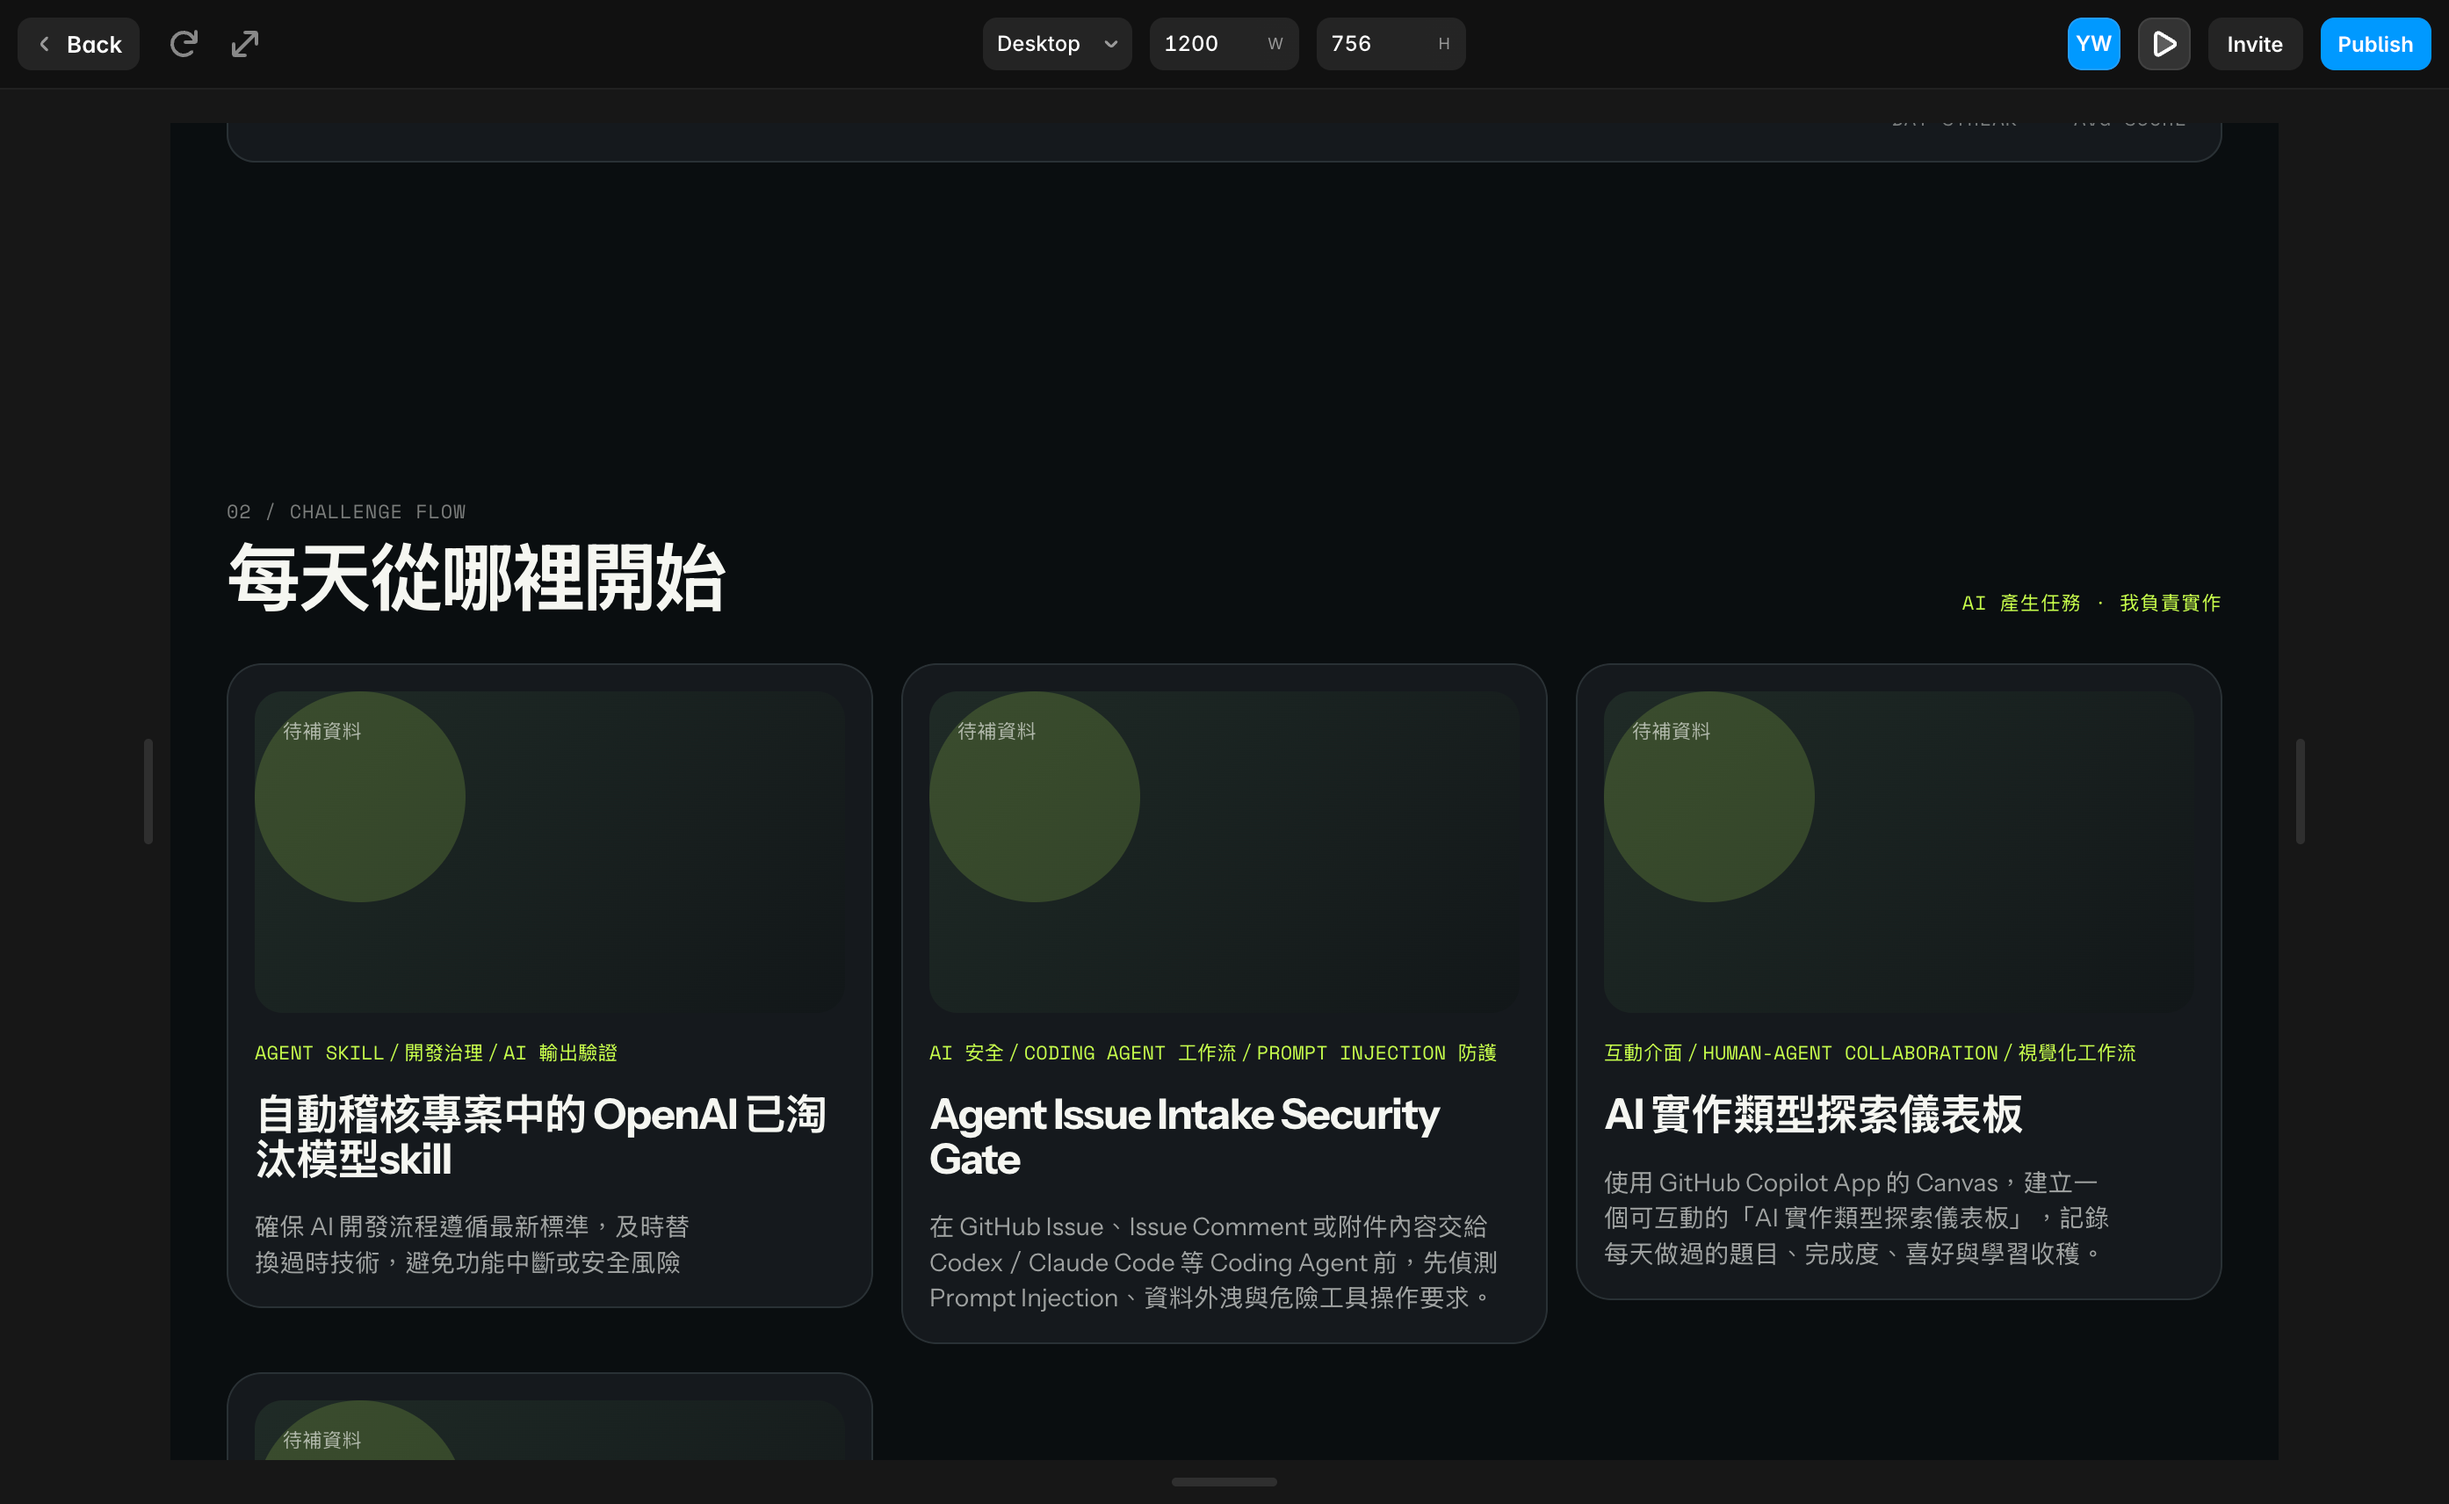
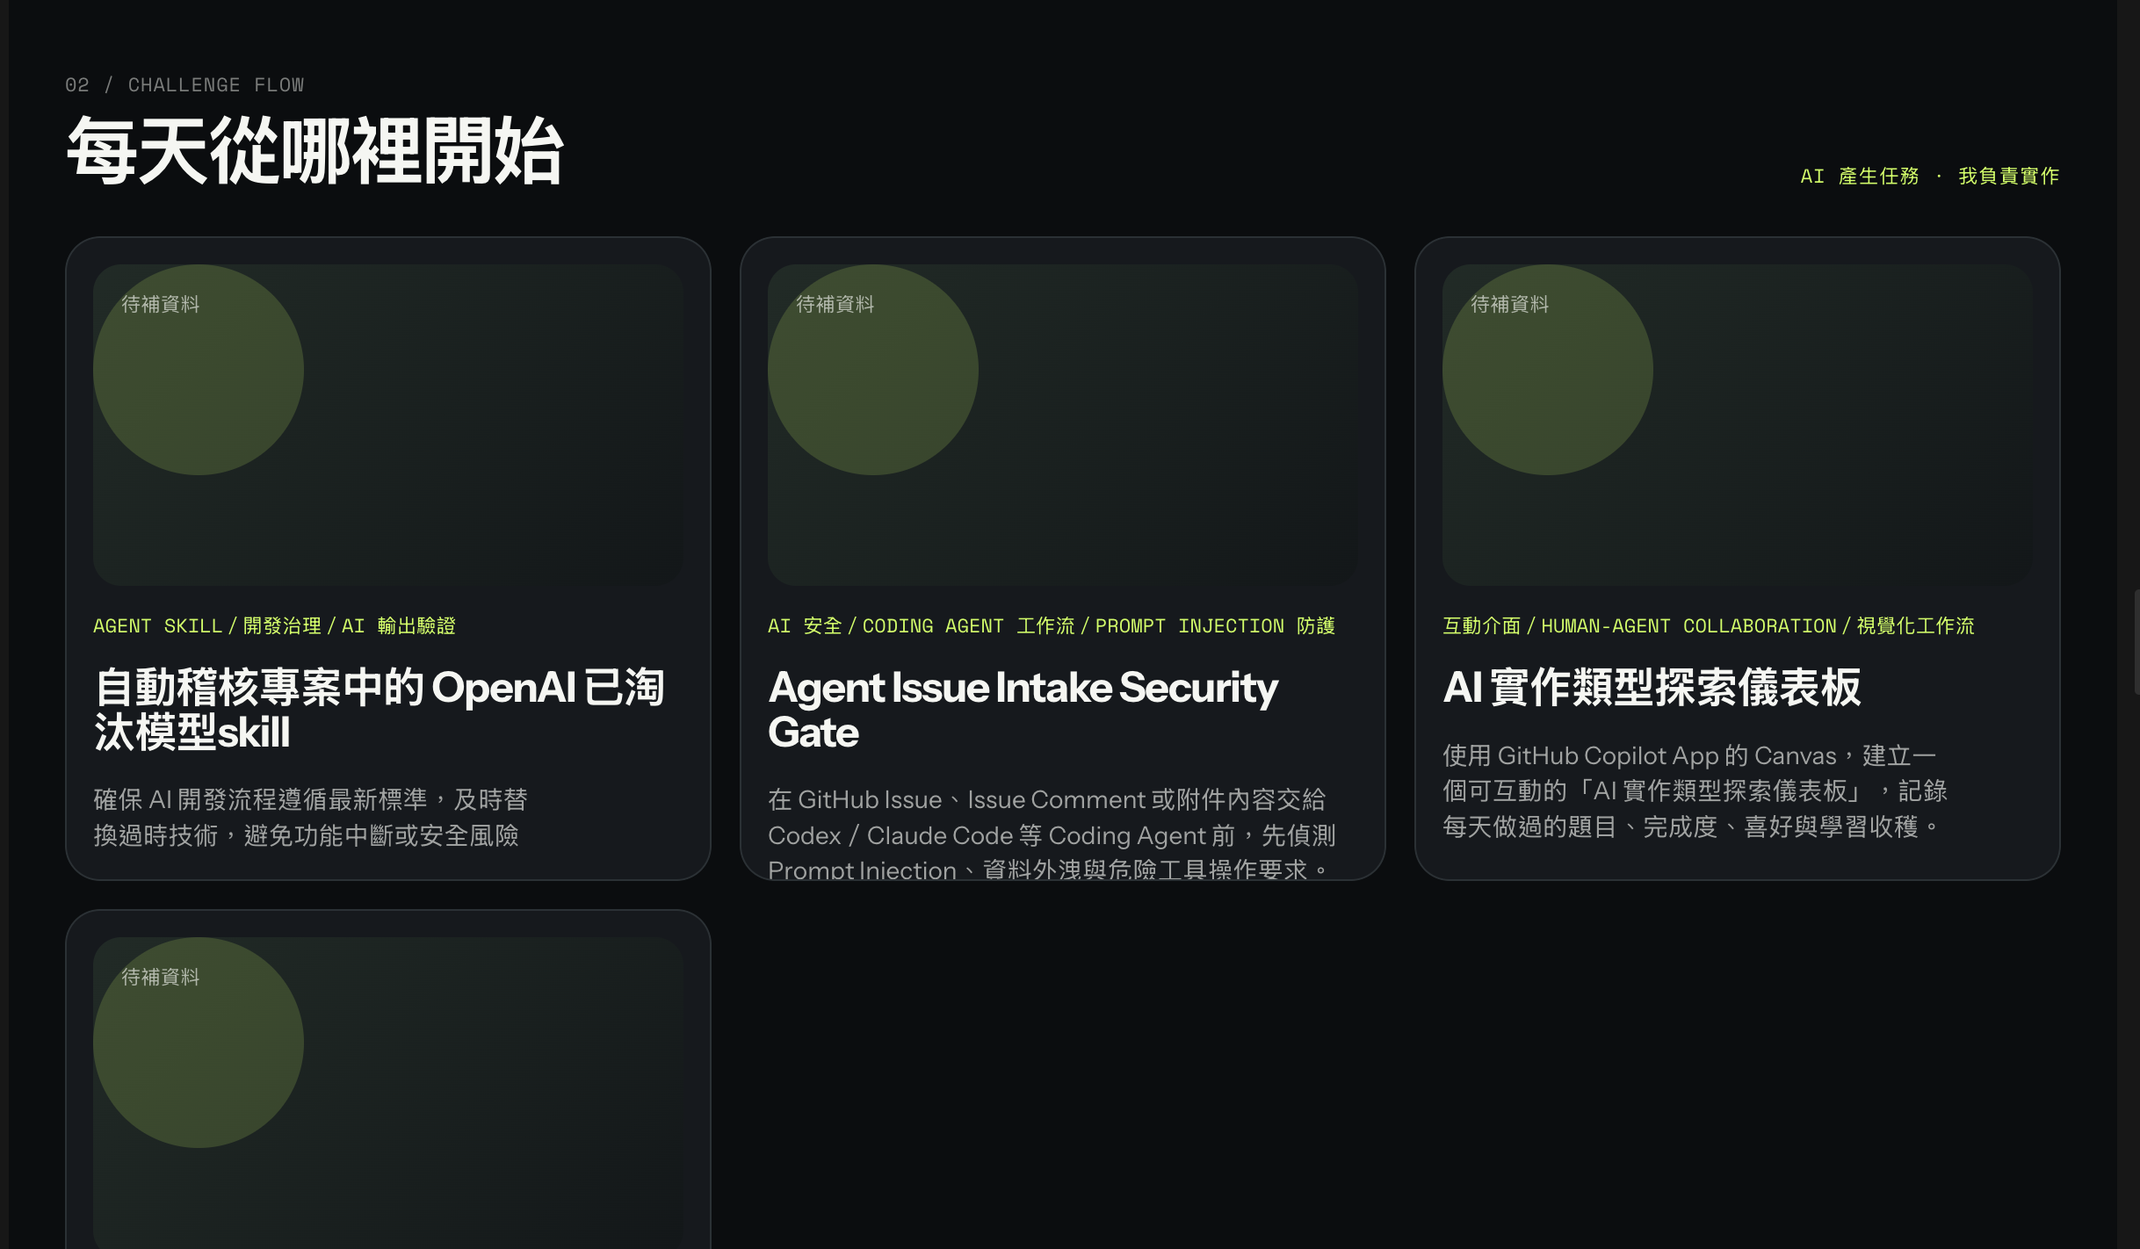
chore: update test documentation and replace evidence image for mobile build stage

diff --git a/20260730/framer-agent-landing-page/docs/test-results.md b/20260730/framer-agent-landing-page/docs/test-results.md
@@ -13,5 +13,16 @@ prompt-staged-build
 4. 折線圖 ： 線中間有斷點
 
 
-revision-prompt.md
-1. 因為credit用完了，所以無法驗證到
+
+## Revision Test
+
+因 Framer AI Credits 已耗盡，未再次呼叫 Agent。
+本次改由人工在 Framer Canvas 定點修正：
+
+1. 統一已完成挑戰卡片高度：通過／未通過
+2. 修正圖片與挑戰資料對應：通過／未通過
+3. 檢查 Section 順序、配色、Hero 文字是否未被改動：通過／未通過
+
+證據：
+- before-revision.png
+- after-revision.png
